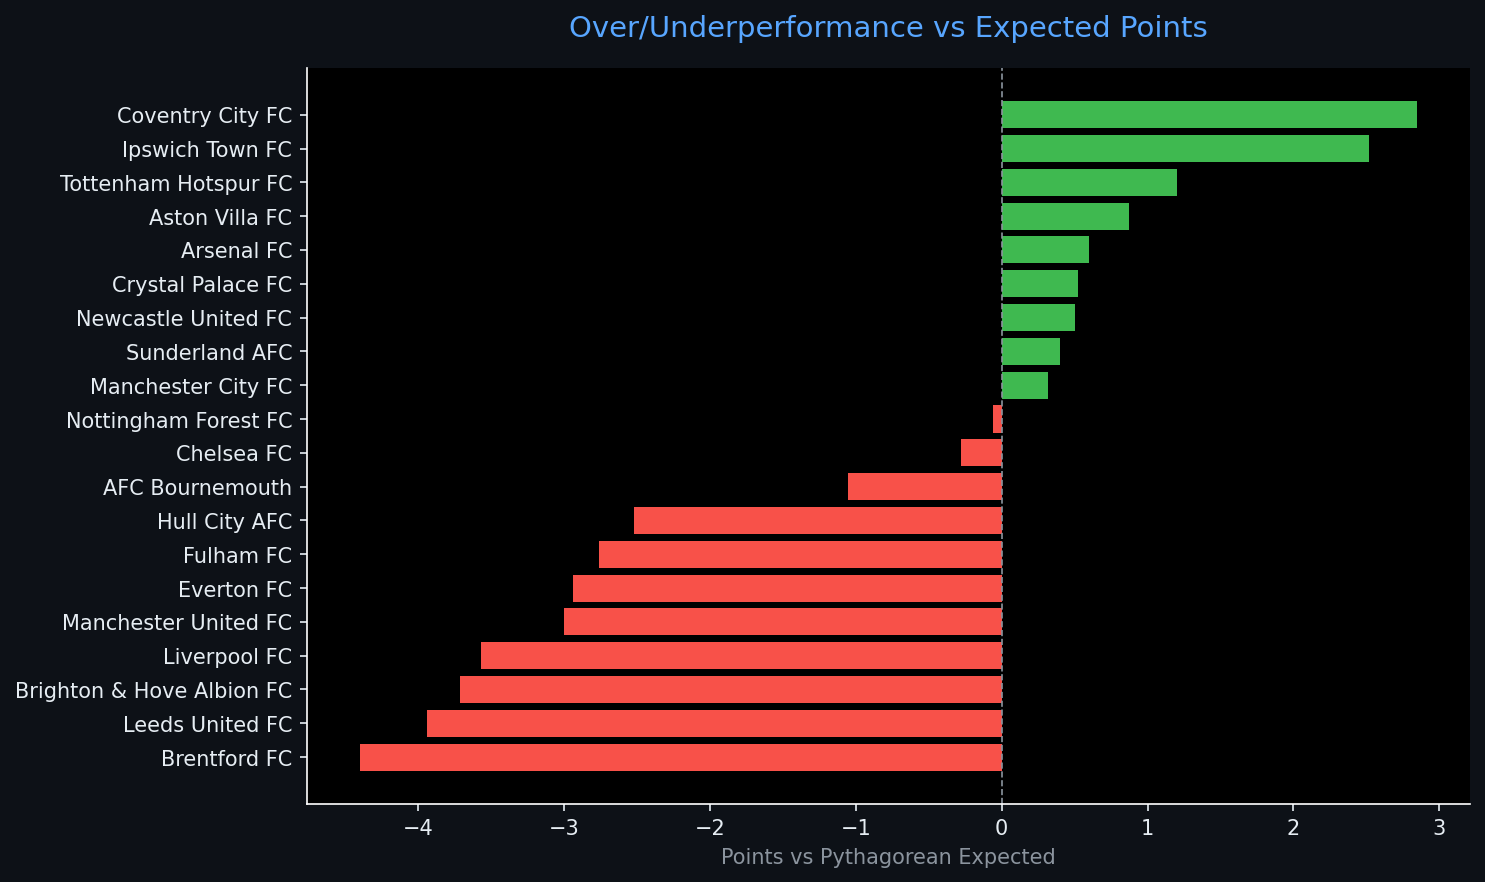
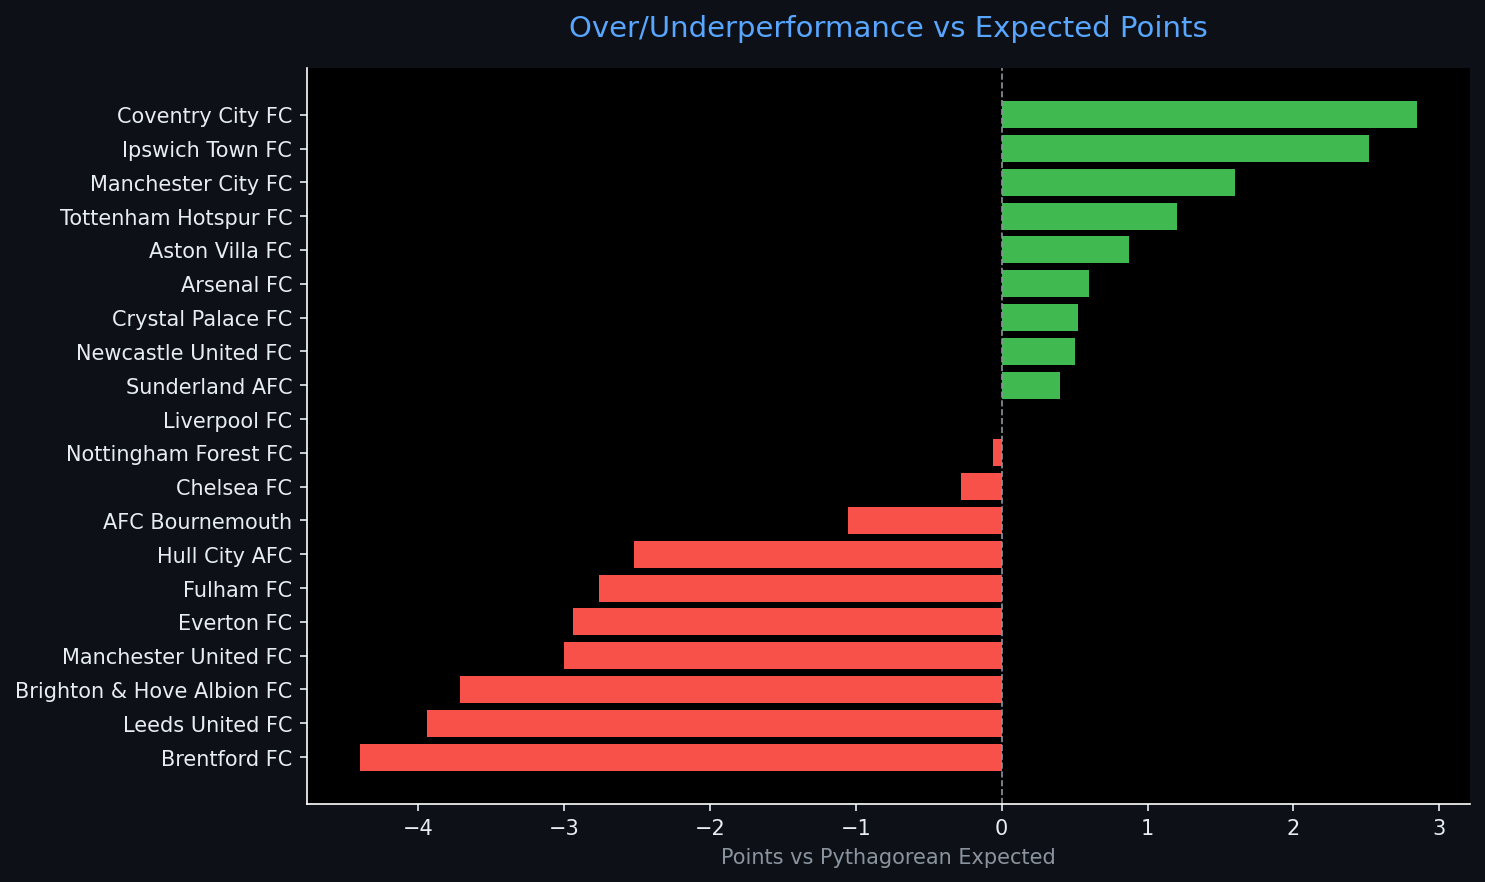
Automated ETL data update: 2026-10-11 21:20

diff --git a/reports/pipeline_report.html b/reports/pipeline_report.html
@@ -4,7 +4,7 @@
 <head>
     <meta charset="UTF-8">
     <meta name="viewport" content="width=device-width, initial-scale=1.0">
-    <title>Sports Data Pipeline Report — 2026-10-11 16:05</title>
+    <title>Sports Data Pipeline Report — 2026-10-11 21:20</title>
     <style>
         body { font-family: 'Segoe UI', sans-serif; background: #0d1117; color: #e6edf3; margin: 0; padding: 2rem; }
         h1   { color: #58a6ff; border-bottom: 1px solid #30363d; padding-bottom: 0.5rem; }
@@ -20,7 +20,7 @@
 </head>
 <body>
     <h1>⚽ Sports Data Pipeline — Automated Report</h1>
-    <p class="meta">Generated: 2026-10-11 16:05 UTC &nbsp;|&nbsp; Sport: <strong>football</strong> &nbsp;|&nbsp; Rows: <strong>20</strong></p>
+    <p class="meta">Generated: 2026-10-11 21:20 UTC &nbsp;|&nbsp; Sport: <strong>football</strong> &nbsp;|&nbsp; Rows: <strong>20</strong></p>
     <span class="badge">Pipeline v1.0.0</span>
     <h2>📊 Data Table</h2>
     <table class="dataframe data-table">
@@ -46,15 +46,15 @@
       <td>1</td>
       <td>Manchester City FC</td>
       <td>6</td>
+      <td>18</td>
+      <td>6</td>
+      <td>0</td>
+      <td>0</td>
       <td>16</td>
       <td>5</td>
-      <td>1</td>
-      <td>0</td>
-      <td>13</td>
-      <td>5</td>
-      <td>0.833</td>
-      <td>2.667</td>
-      <td>0.871</td>
+      <td>1.000</td>
+      <td>3.000</td>
+      <td>0.911</td>
       <td>NaN</td>
     </tr>
     <tr>
@@ -119,21 +119,6 @@
     </tr>
     <tr>
       <td>6</td>
-      <td>Liverpool FC</td>
-      <td>6</td>
-      <td>10</td>
-      <td>2</td>
-      <td>4</td>
-      <td>0</td>
-      <td>7</td>
-      <td>4</td>
-      <td>0.333</td>
-      <td>1.667</td>
-      <td>0.754</td>
-      <td>NaN</td>
-    </tr>
-    <tr>
-      <td>7</td>
       <td>Chelsea FC</td>
       <td>6</td>
       <td>10</td>
@@ -148,7 +133,7 @@
       <td>NaN</td>
     </tr>
     <tr>
-      <td>8</td>
+      <td>7</td>
       <td>Leeds United FC</td>
       <td>6</td>
       <td>9</td>
@@ -163,7 +148,7 @@
       <td>NaN</td>
     </tr>
     <tr>
-      <td>9</td>
+      <td>8</td>
       <td>Hull City AFC</td>
       <td>6</td>
       <td>9</td>
@@ -175,6 +160,21 @@
       <td>0.333</td>
       <td>1.500</td>
       <td>0.640</td>
+      <td>NaN</td>
+    </tr>
+    <tr>
+      <td>9</td>
+      <td>Liverpool FC</td>
+      <td>6</td>
+      <td>9</td>
+      <td>2</td>
+      <td>3</td>
+      <td>1</td>
+      <td>7</td>
+      <td>7</td>
+      <td>0.333</td>
+      <td>1.500</td>
+      <td>0.500</td>
       <td>NaN</td>
     </tr>
     <tr>
@@ -362,7 +362,7 @@
         
         <tr><td>Null Values</td><td>88</td></tr>
         
-        <tr><td>Run Timestamp (UTC)</td><td>2026-10-11T16:05:27.482993</td></tr>
+        <tr><td>Run Timestamp (UTC)</td><td>2026-10-11T21:20:12.915794</td></tr>
         
         <tr><td>ML Features Ready</td><td>False</td></tr>
         
